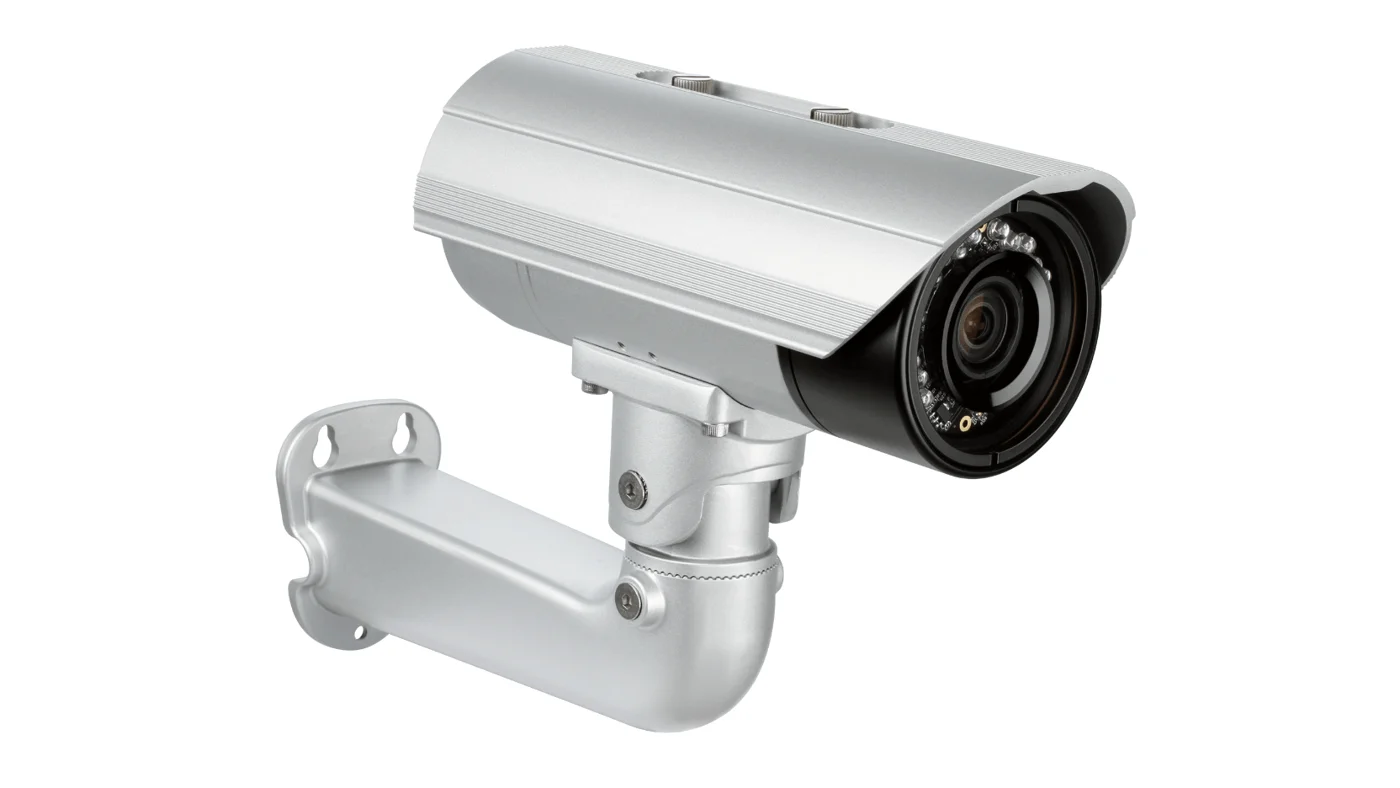
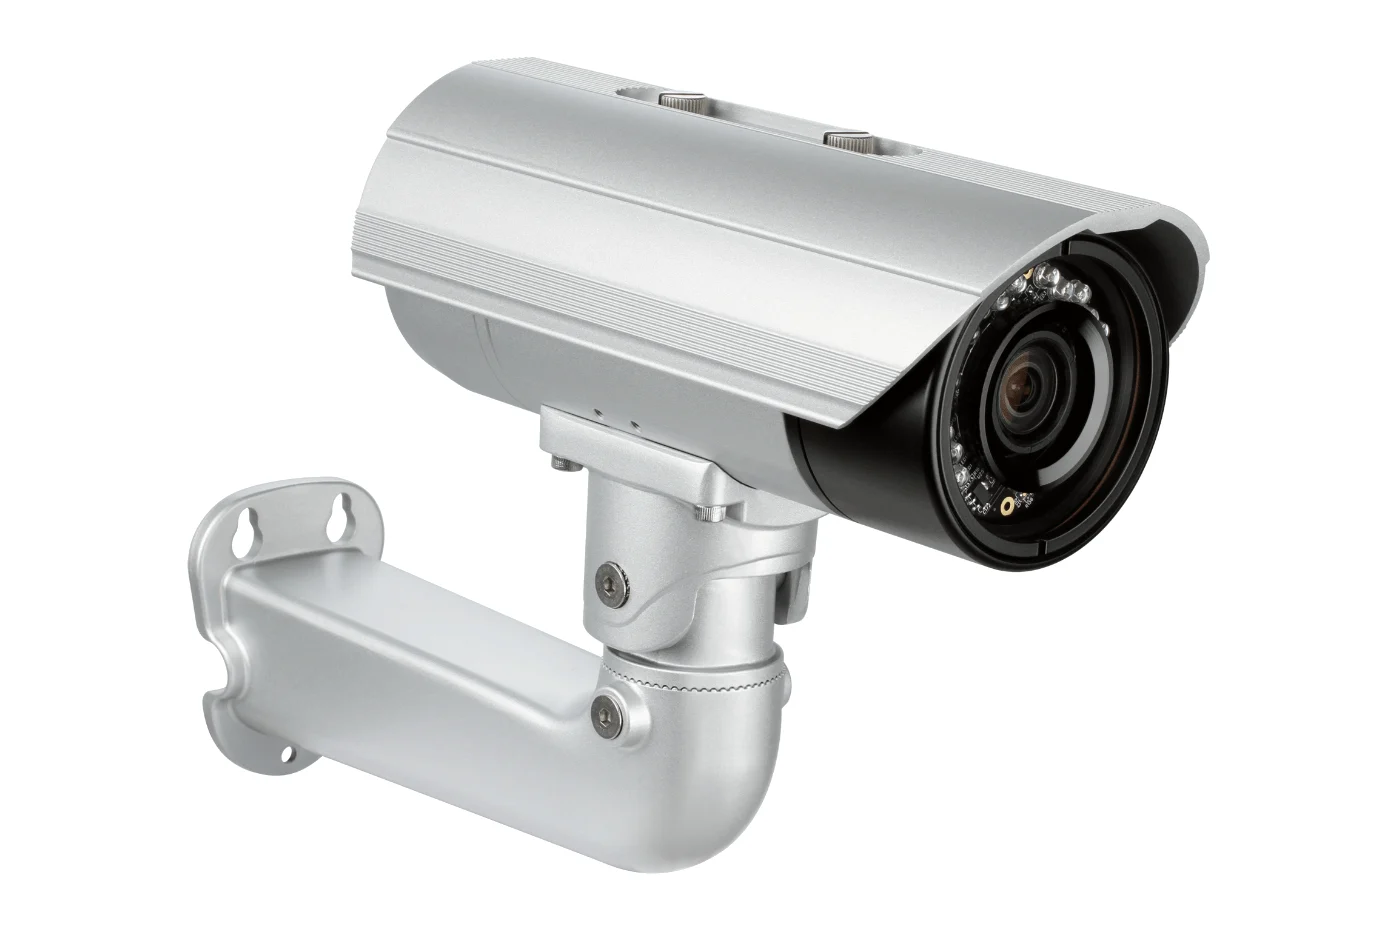
Accessoires : cadres au format 3:2 des photos, grille de 3 colonnes ; photos recadrées pour remplir le cadre sans coupure
Claude-Session: https://claude.ai/code/session_01VbDJdVH9u9BqnQ9rdjTKy4

diff --git a/assets/css/style.css b/assets/css/style.css
@@ -439,14 +439,11 @@ a:hover .portrait img, .tm:hover .portrait img { transform: scale(1.06); }
 .social a::after { content: "↗"; font-size: .9em; color: var(--orange); }
 
 /* ---------- accessoires ---------- */
-.acc-grid { display: grid; grid-template-columns: repeat(4, minmax(0, 1fr)); gap: clamp(10px, 1.4vw, 20px); }
+.acc-grid { display: grid; grid-template-columns: repeat(3, minmax(0, 1fr)); gap: clamp(10px, 1.4vw, 20px); }
 .acc { display: grid; gap: 12px; align-content: start; }
-.acc .slot { aspect-ratio: 1 / 1; background: var(--white); border: 1px solid var(--ink-08); }
-/* produits : image entière, centrée dans le cadre, jamais coupée */
-.acc .slot img { object-fit: contain; object-position: center; padding: clamp(10px, 6%, 28px); }
-.acc--wide { grid-column: span 2; }
-.acc--wide .slot { aspect-ratio: auto; height: 100%; min-height: 0; }
-.acc--wide { grid-template-rows: 1fr auto; }
+/* cadres au format des photos produits (3:2) : la photo remplit tout le cadre sans être coupée */
+.acc .slot { aspect-ratio: 3 / 2; background: var(--white); border: 1px solid var(--ink-08); }
+.acc .slot img { object-fit: cover; object-position: center; }
 .acc__meta { display: flex; justify-content: space-between; align-items: baseline; gap: 10px; border-top: 1px solid var(--ink-12); padding-top: 10px; }
 .acc__name { font-size: clamp(17px, 1.4vw, 20px); font-weight: 500; letter-spacing: -.02em; }
 
@@ -528,7 +525,6 @@ a:hover .portrait img, .tm:hover .portrait img { transform: scale(1.06); }
   .event__ig { grid-column: 2; justify-self: start; }
 }
 @media (max-width: 760px) {
-  .acc--wide .slot { aspect-ratio: 1 / 1; }
   .filter { height: 40px; padding: 0 14px; font-size: 14px; }
   .filters { flex-wrap: nowrap; overflow-x: auto; margin: 0 -16px 28px; padding: 2px 16px; scrollbar-width: none; }
   .filters::-webkit-scrollbar { display: none; }

diff --git a/assets/js/sections.js b/assets/js/sections.js
@@ -18,8 +18,8 @@ async function accessoires() {
   const d = await getJSON('accessoires');
   const intro = document.querySelector('[data-acc-intro]');
   if (intro) intro.textContent = d.intro || '';
-  document.getElementById('accGrid').innerHTML = (d.items || []).map((it, i) => `
-    <article class="acc${i === 0 ? ' acc--wide' : ''}" data-reveal>
+  document.getElementById('accGrid').innerHTML = (d.items || []).map(it => `
+    <article class="acc" data-reveal>
       ${slot(it.photo, it.name, `Photo ${it.name}`)}
       <div class="acc__meta"><span class="acc__name">${esc(it.name)}</span><span class="eyebrow">${esc(it.group)}</span></div>
     </article>`).join('');
